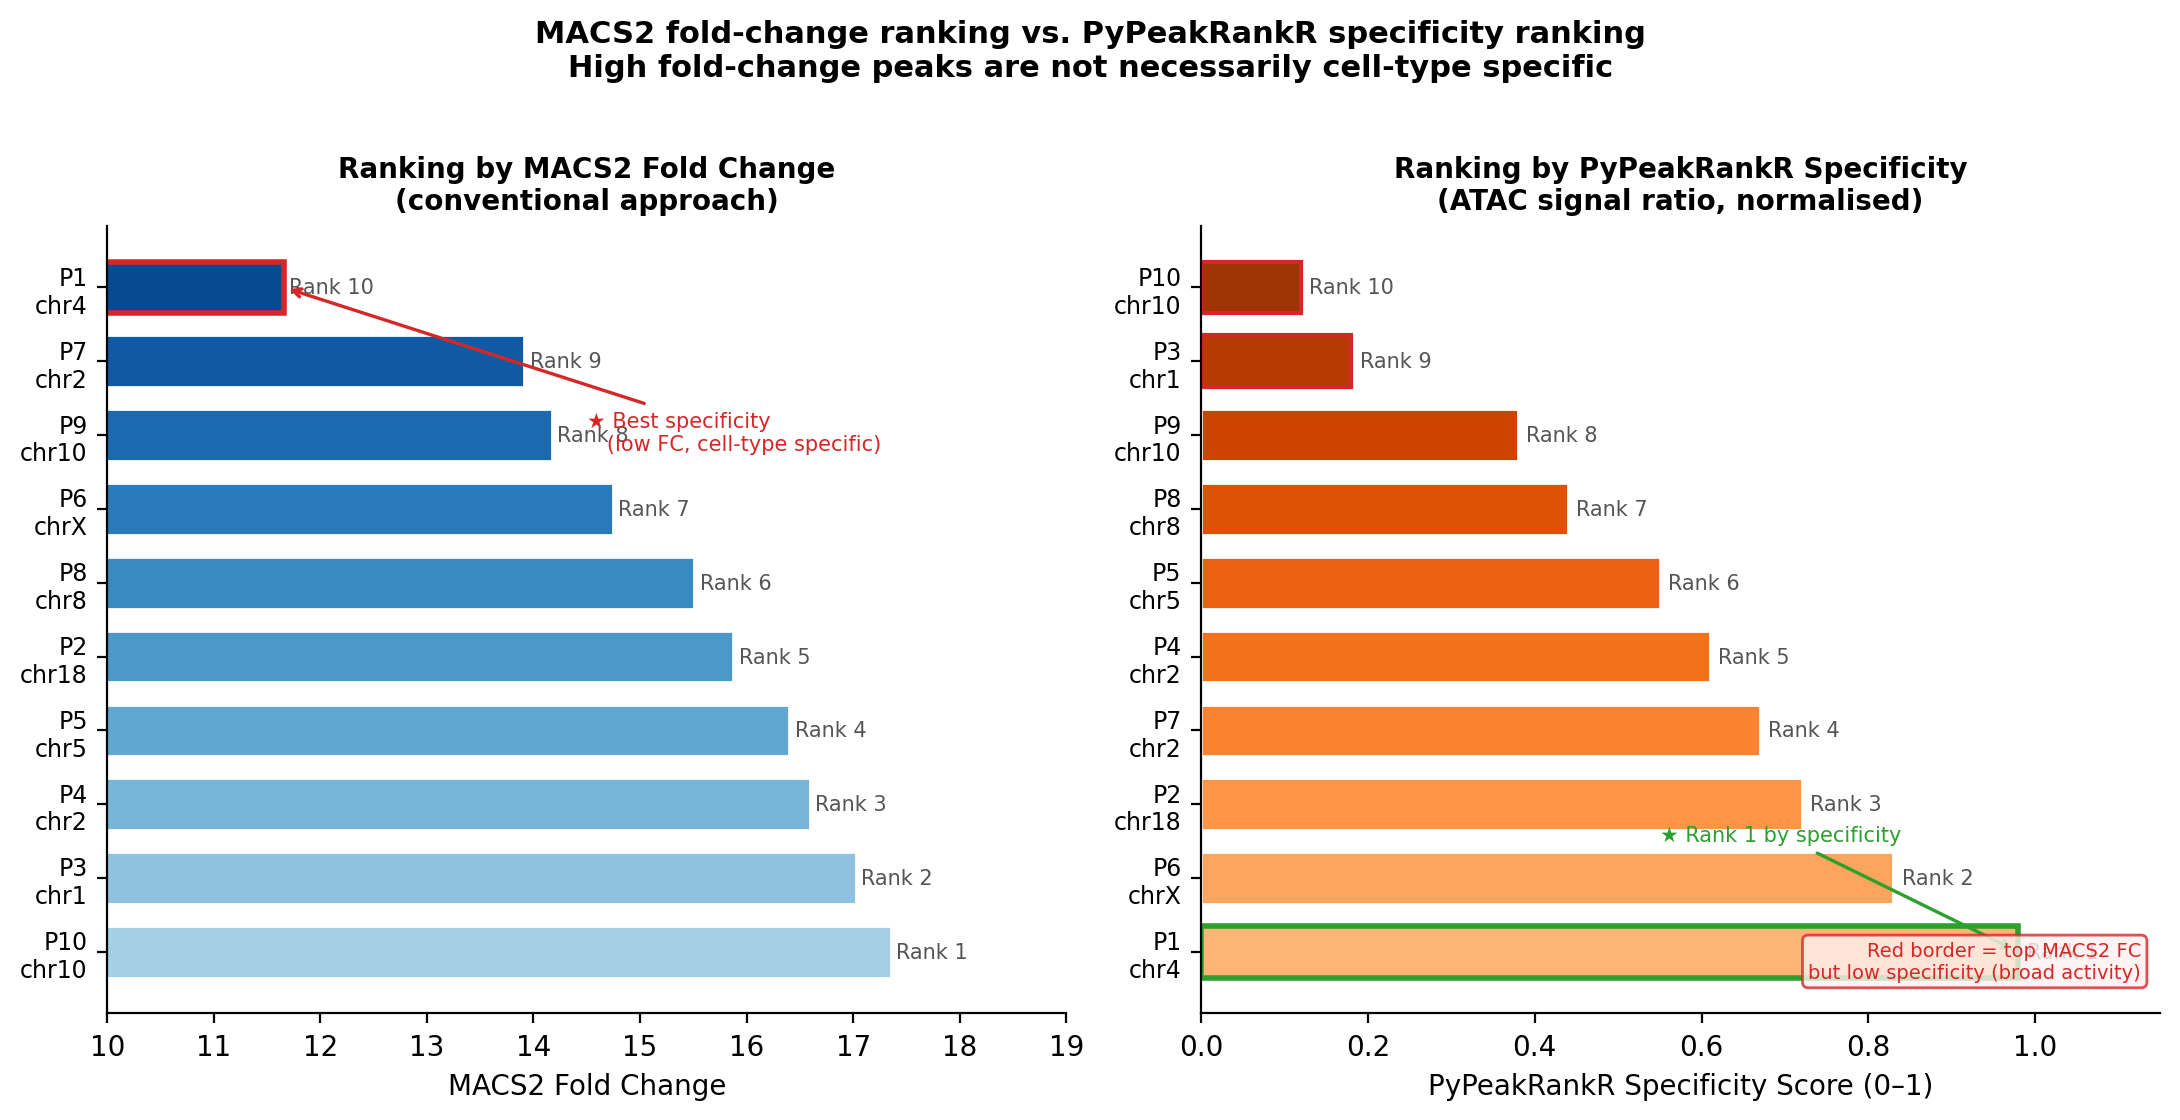
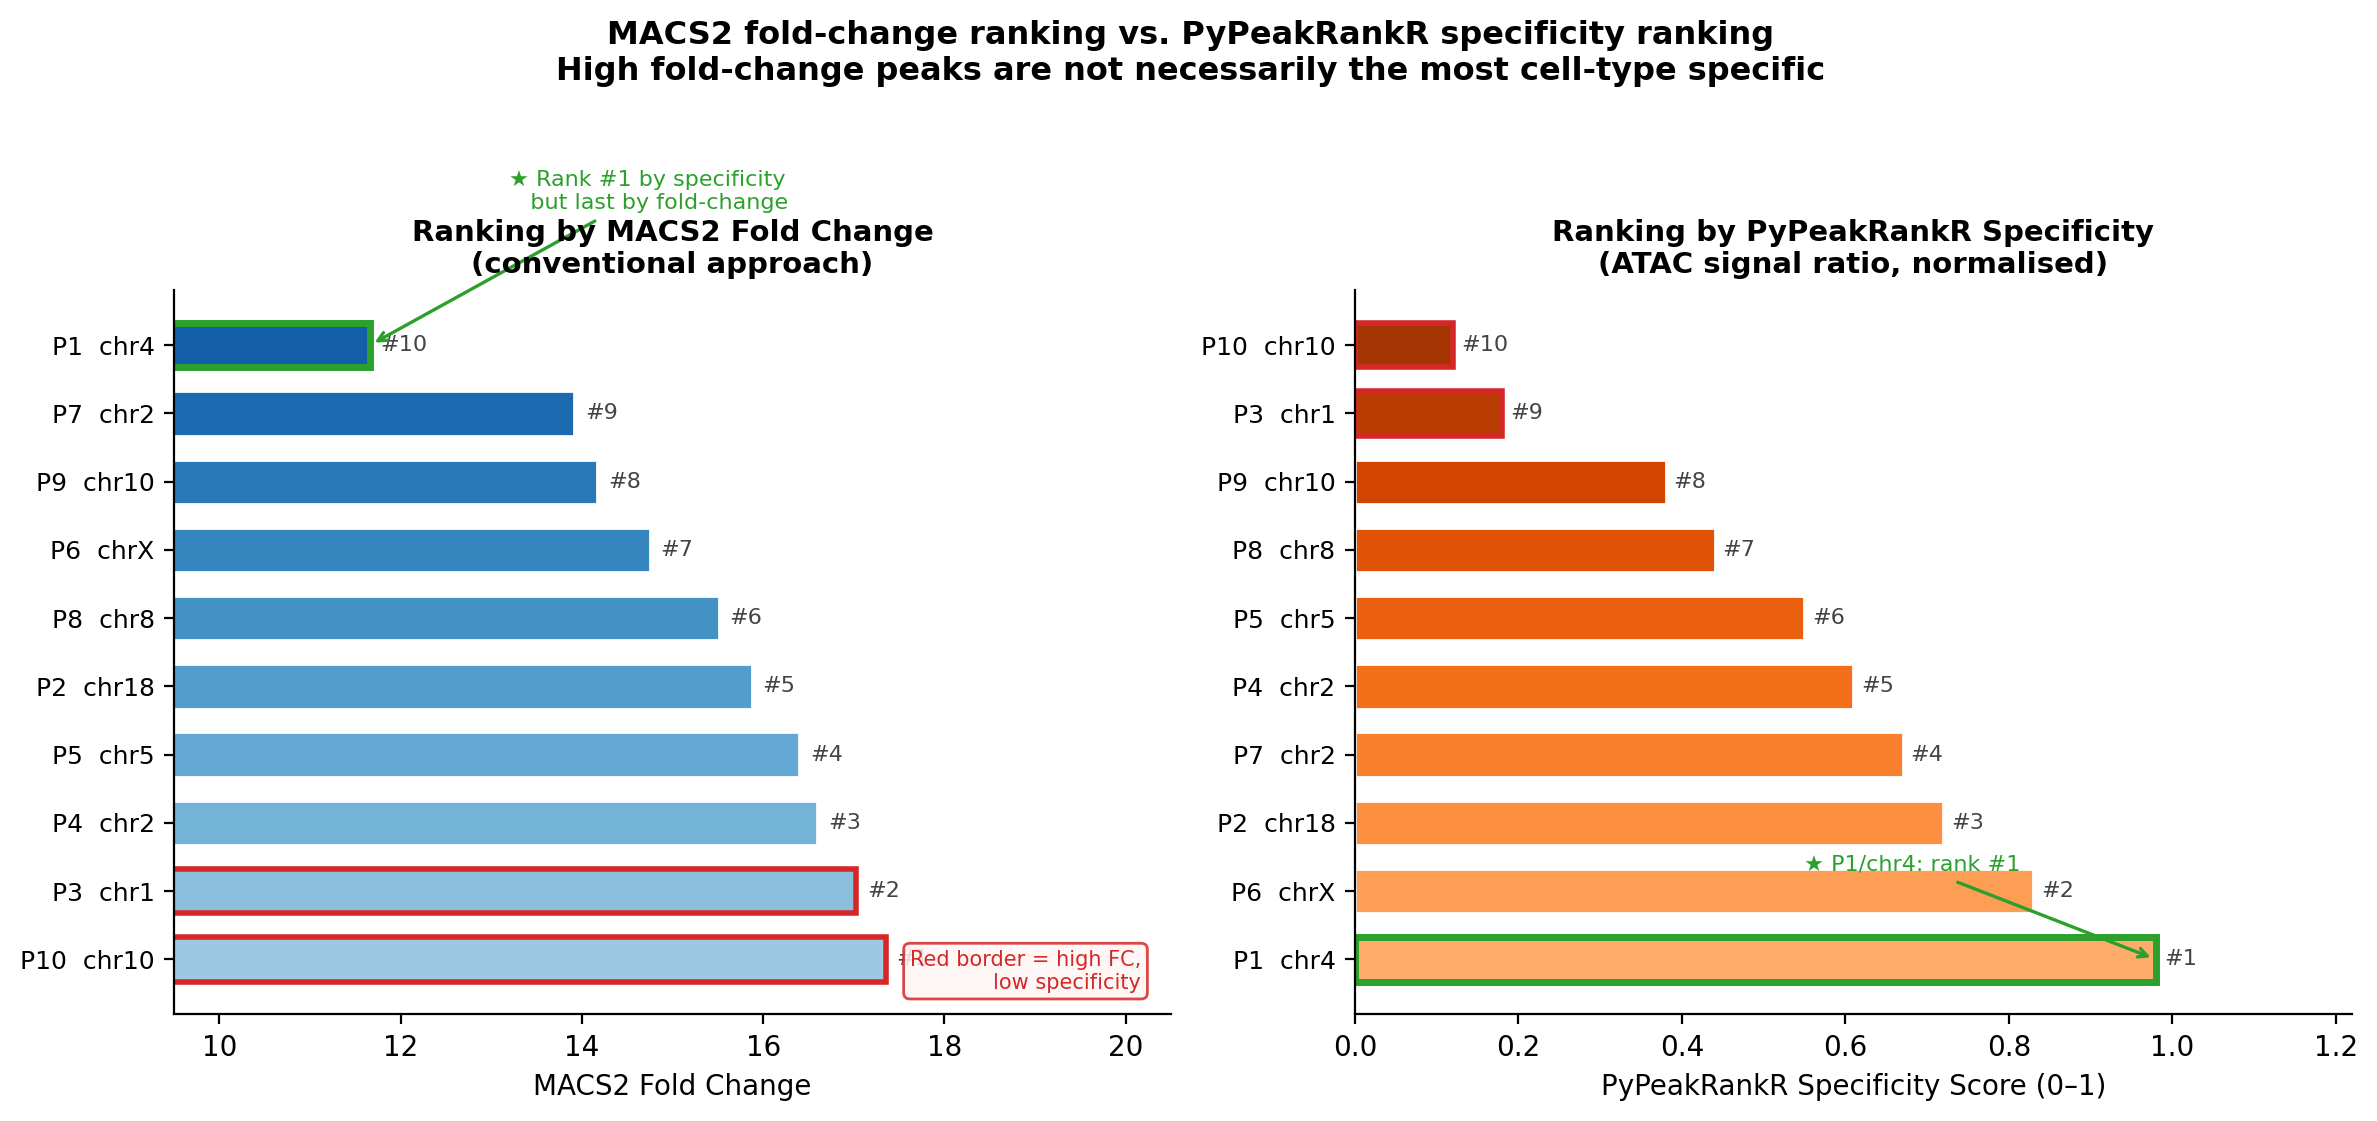
Fix all files: fix URLs, figures, pyBigWig citation

diff --git a/README.md b/README.md
@@ -1,15 +1,15 @@
-# PyPeakRanker
+# PyPeakRankR
 
 [![License: MIT](https://img.shields.io/badge/License-MIT-yellow.svg)](LICENSE)
 [![Python 3.9+](https://img.shields.io/badge/python-3.9+-blue.svg)](https://www.python.org/downloads/)
 
-**PyPeakRanker** is a Python package for extracting quantitative features from
+**PyPeakRankR** is a Python package for extracting quantitative features from
 a predefined set of genomic peaks and assembling them into a reproducible,
 analysis-ready feature table.
 
 It generates a standardized **peak × feature matrix** enabling systematic
 ranking and comparison of regulatory elements across cell types, conditions,
-or species. PyPeakRanker does **not perform peak calling** — it standardizes
+or species. PyPeakRankR does **not perform peak calling** — it standardizes
 feature extraction so that downstream prioritization can be performed
 reproducibly using any statistical or machine-learning approach.
 
@@ -38,14 +38,14 @@ reproducibly using any statistical or machine-learning approach.
 ### Install from GitHub
 
 ```bash
-pip install git+https://github.com/AllenInstitute/PyPeakRankR.git
+pip install git+https://github.com/AllenInstitute/PeakRankR.git@python-package
 ```
 
 ### Install from source
 
 ```bash
-git clone https://github.com/AllenInstitute/PyPeakRankR
-cd PyPeakRankR
+git clone -b python-package https://github.com/AllenInstitute/PeakRankR
+cd PeakRankR
 pip install -e .
 ```
 
@@ -153,7 +153,7 @@ pytest tests/
 
 ## Design Philosophy
 
-PyPeakRanker separates **feature extraction** (deterministic, standardized)
+PyPeakRankR separates **feature extraction** (deterministic, standardized)
 from **peak ranking** (user-defined, flexible). This ensures ranking logic
 remains transparent and adaptable to specific biological questions.
 
@@ -162,30 +162,32 @@ remains transparent and adaptable to specific biological questions.
 
 ## Used in
 
-PyPeakRanker was used in the following published studies:
+PyPeakRankR was used in the following published studies:
 
 - **Johansen et al. (2025)** — [Evaluating methods for the prediction of cell-type-specific enhancers in the mammalian cortex](https://doi.org/10.1016/j.xgen.2025.100879). *Cell Genomics.*
   PeakRankR ranked among the top 3 methods in the BICCN community challenge across 16 competing methods.
 
 - **Wirthlin et al. (2026)** — [A Cross-Species Enhancer-AAV Toolkit for Cell Type-Specific Targeting Across the Basal Ganglia](https://doi.org/10.64898/2026.02.23.706695). *bioRxiv.*
-  PyPeakRanker was used in the Cross-species Enhancer Ranking Pipeline (CERP) to compute ATAC specificity, PhyloP conservation, GC content, signal moments, and composite rankings for 514 candidate enhancers across basal ganglia cell types in mouse and macaque.
+  PyPeakRankR was used in the Cross-species Enhancer Ranking Pipeline (CERP) to compute ATAC specificity, PhyloP conservation, GC content, signal moments, and composite rankings for 514 candidate enhancers across basal ganglia cell types in mouse and macaque.
 
 ---
 
 ## Citation
 
-If you use PyPeakRanker in your research, please cite:
+If you use PyPeakRankR in your research, please cite:
 
-> Somasundaram, S. (2026). PyPeakRanker: Reproducible Peak-Level Feature
-> Extraction for Regulatory Element Ranking.
+> Somasundaram, S. and Johansen, N.J. (2026). PyPeakRankR: Reproducible Peak-Level
+> Feature Extraction for Regulatory Element Ranking.
 > *Journal of Open Source Software*.
-> https://github.com/AllenInstitute/PyPeakRankR
+> https://github.com/AllenInstitute/PeakRankR/tree/python-package
 
 ---
 
-## Author
+## Authors
 
 Saroja Somasundaram — Allen Institute for Brain Science
+
+Nelson J. Johansen — Allen Institute for Brain Science
 
 ## License
 

diff --git a/paper/paper.md b/paper/paper.md
@@ -71,7 +71,7 @@ heterogeneous input tracks — which is precisely what PyPeakRankR addresses.
 # State of the field
 
 Several tools perform individual aspects of peak-level feature computation.
-`pyBigWig` [@Ramírez2016] provides low-level BigWig access but no peak-level
+`pyBigWig` [@Ramirez2020pyBigWig] provides low-level BigWig access but no peak-level
 aggregation framework. `deepTools` [@Ramírez2016] computes matrix summaries but
 is oriented toward visualization rather than tabular feature assembly. ArchR
 [@Corces2018] computes cell-type specificity scores within its own data model
@@ -149,13 +149,15 @@ accessibility across cell types. This divergence illustrates why fold-change
 alone is insufficient for selecting cell-type specific regulatory elements.
 
 ![Comparison of MACS2 fold-change ranking (left) versus PyPeakRankR
-specificity ranking (right) for ten ATAC-seq peaks. Peaks with the highest
-MACS2 fold-change are not necessarily the most cell-type specific. P1 (chr4,
-red border, left) ranks last by fold-change but first by specificity. P3
-(chr1) and P10 (chr10) rank highly by fold-change but show low specificity
-scores, consistent with broad activity across cell types. PyPeakRankR
-specificity scores are normalised to [0, 1]; rank 1 indicates the peak most
-exclusively active in the target
+specificity ranking (right) for ten MACS2 narrowPeak calls from a real
+ATAC-seq experiment (test.bed). Peaks with the highest MACS2 fold-change
+are not necessarily the most cell-type specific. P1 (chr4, green border)
+ranks last by fold-change (FC = 11.7) but first by specificity. P3 (chr1)
+and P10 (chr10) rank first and second by fold-change (FC = 17.0 and 17.4)
+but near the bottom by specificity, consistent with broad chromatin
+accessibility across cell types. Specificity scores are the ratio of target
+to mean background ATAC signal, min-max normalised to [0, 1]; rank 1 is
+the peak most exclusively active in the target
 group.](browser_tracks_comparison.png)
 
 # Research impact statement
@@ -186,7 +188,7 @@ regions. The software is openly available and documented for community reuse.
 
 PyPeakRankR is implemented in Python (>=3.9) with the following dependencies:
 `pandas` [@Reback2020] for tabular data handling, `numpy` [@Harris2020] for
-numerical computation, `pyBigWig` [@Ramírez2016] for BigWig signal extraction,
+numerical computation, `pyBigWig` [@Ramirez2020pyBigWig] for BigWig signal extraction,
 `pyfaidx` [@Shirley2015] for FASTA sequence access, and `scipy` [@Virtanen2020]
 for statistical distribution metrics. The package is installable via pip from
 GitHub, provides a `pypeakranker` CLI entry point, and includes unit tests

diff --git a/CONTRIBUTING.md b/CONTRIBUTING.md
@@ -1,10 +1,10 @@
-# Contributing to PyPeakRanker
+# Contributing to PyPeakRankR
 
 Thank you for your interest in contributing!
 
 ## Reporting issues
 
-Please use the [GitHub issue tracker](https://github.com/AllenInstitute/PyPeakRankR/issues).
+Please use the [GitHub issue tracker](https://github.com/AllenInstitute/PeakRankR/issues).
 Include:
 - A minimal reproducible example
 - Your Python version and OS
@@ -13,8 +13,8 @@ Include:
 ## Development setup
 
 ```bash
-git clone https://github.com/AllenInstitute/PyPeakRankR
-cd PyPeakRankR
+git clone -b python-package https://github.com/AllenInstitute/PeakRankR
+cd PeakRankR
 pip install -e ".[dev]"
 ```
 
